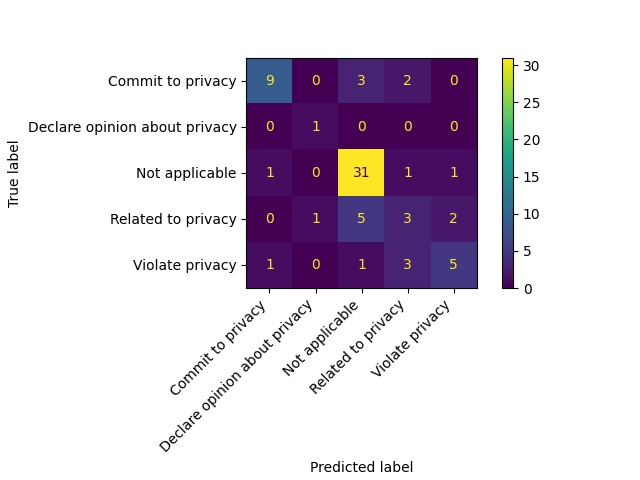
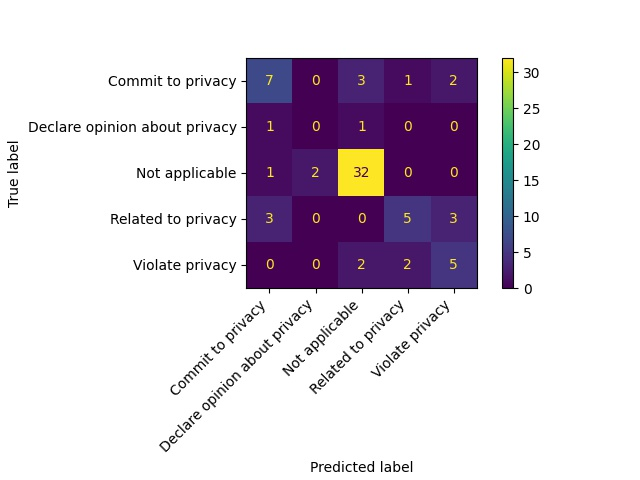
svc test set one vs res c 0.05

diff --git a/AIclassifier.py b/AIclassifier.py
@@ -4,6 +4,7 @@ from sklearn.model_selection import GridSearchCV
 from imblearn.under_sampling import RandomUnderSampler 
 from imblearn.over_sampling import SMOTE
 from sklearn.linear_model import LinearRegression,SGDClassifier, RidgeClassifier
+from sklearn.multiclass import OneVsRestClassifier
 from sklearn.svm import LinearSVC
 from sklearn.preprocessing import StandardScaler
 from sklearn.pipeline import make_pipeline
@@ -238,7 +239,8 @@ test_labels_primary = create_labels_array(labels_test)
 # RIDGE REGRESSION CLASSIFIER
 #ridge_classifier = RidgeClassifier()
 #sgd_classifier = make_pipeline(StandardScaler(),SGDClassifier(max_iter=1000, tol=1e-3))#, random_state=1111111))
-svc_classifier = make_pipeline(StandardScaler(), LinearSVC(dual=False,random_state=None, tol=1e-5))
+#svc_classifier = make_pipeline(StandardScaler(), OneVsRestClassifier(LinearSVC(dual=False,random_state=None, tol=1e-5, C=0.05)))
+svc_classifier = make_pipeline(StandardScaler(), OneVsRestClassifier(LinearSVC(dual=False,random_state=None, tol=1e-5, C=0.05)))
 
 # FLAG - CHECK WHICH CONFIGURATIONS SHOULD BE HERE - checked
 
@@ -297,8 +299,8 @@ model = svc_classifier.fit(train_matrix_array, train_labels_primary)
 #    print('Feature:',feature[1],'Score:',feature[0])
 
 # Predicting
-#predictions = model.predict(dev_matrix_array)
-predictions = model.predict(test_matrix_array)
+predictions = model.predict(dev_matrix_array)
+#predictions = model.predict(test_matrix_array)
 
 # casually printing results
 #for sent, pred in zip(sents_train,predictions):
@@ -312,25 +314,25 @@ pred_list = [pred for pred in predictions]
 labels=[1,3,5,4,2]
 path='output/AI Classifier/1Label_confusion_matrix_NormTrue.jpg'
 display_labels=['Commit to privacy', 'Declare opinion about privacy','Not applicable','Related to privacy','Violate privacy']
-#create_confusion_matrix(dev_list, pred_list, "true", path, labels, display_labels)
-create_confusion_matrix(test_list, pred_list, "true", path, labels, display_labels)
+create_confusion_matrix(dev_list, pred_list, "true", path, labels, display_labels)
+#create_confusion_matrix(test_list, pred_list, "true", path, labels, display_labels)
 path='output/AI Classifier/1Label_confusion_matrix_NonNorm.jpg'
-#create_confusion_matrix(dev_list, pred_list, None, path, labels, display_labels)
-create_confusion_matrix(test_list, pred_list, None, path, labels, display_labels)
+create_confusion_matrix(dev_list, pred_list, None, path, labels, display_labels)
+#create_confusion_matrix(test_list, pred_list, None, path, labels, display_labels)
 
 # FLAG - CHECK IF CONFUSION MATRIX IS CORRECT FOR EVERY LABEL
 #path='output/AI Classifier/1labelSGDPredictionsStatsDev.txt'
 #path='output/AI Classifier/1labelRidgePredictionsStatsDev.txt'
-#path='output/AI Classifier/1labelPredictionsStatsDev.txt'
-path='output/AI Classifier/1labelPredictionsStatsTest.txt'
+path='output/AI Classifier/1labelPredictionsStatsDev.txt'
+#path='output/AI Classifier/1labelPredictionsStatsTest.txt'
 os.makedirs(os.path.dirname(path), exist_ok=True)
 with open(path, 'w') as file:
     print("Performance measures - Unigram Dictionary - SVC\n", file=file)
     #print("Performance measures - Mixed Dictionary - Adaboost\n", file=file)
     #print("Performance measures - Bigram Dictionary\n", file=file)
 #write_output_stats_file(path, "Mixed", test_labels_primary, predictions, labels)
-#write_output_stats_file(path, "Dev", dev_labels_primary, predictions, labels)
-write_output_stats_file(path, "Test", test_labels_primary, predictions, labels)
+write_output_stats_file(path, "Dev", dev_labels_primary, predictions, labels)
+#write_output_stats_file(path, "Test", test_labels_primary, predictions, labels)
 
 # TO DO: WRITE PREDICTIONS JSON FILE -> LEARN HOW TO TRANSFORM ADABOOST OUTPUT IN DICT ( LIST OF ({"text":sentence['text'], "label":label}))
 #write_predictions_file("Dev", dev_pred_dict)
